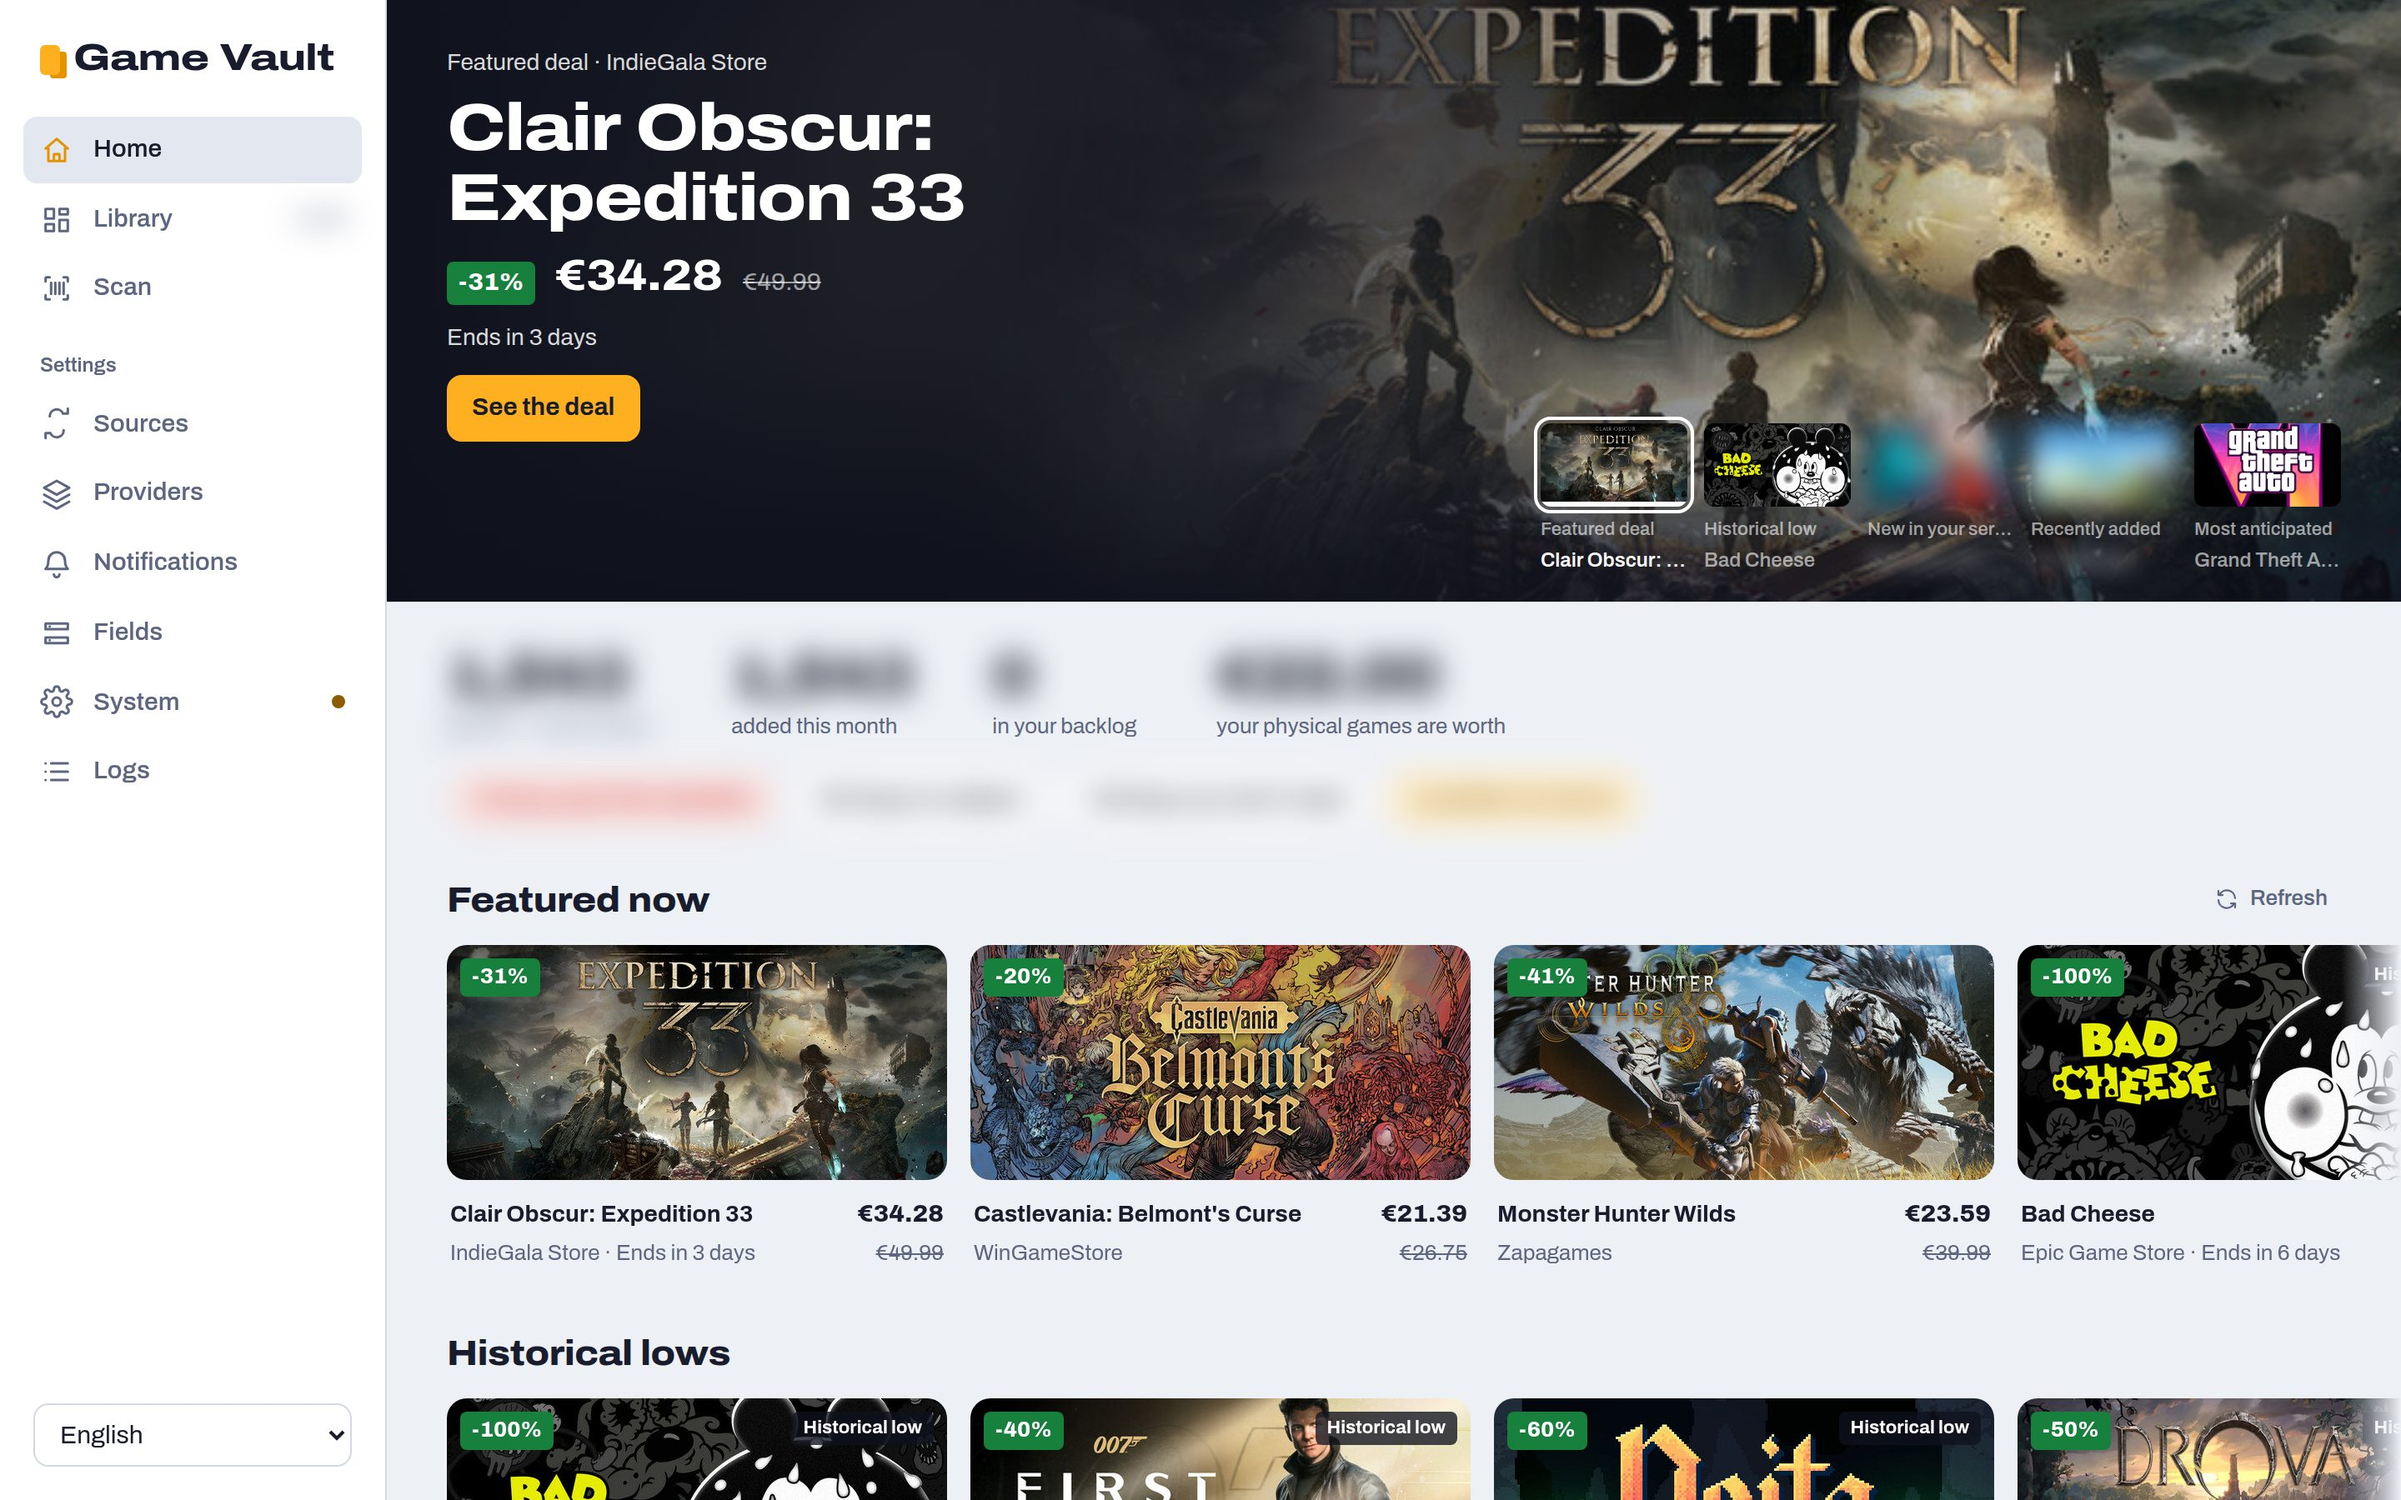
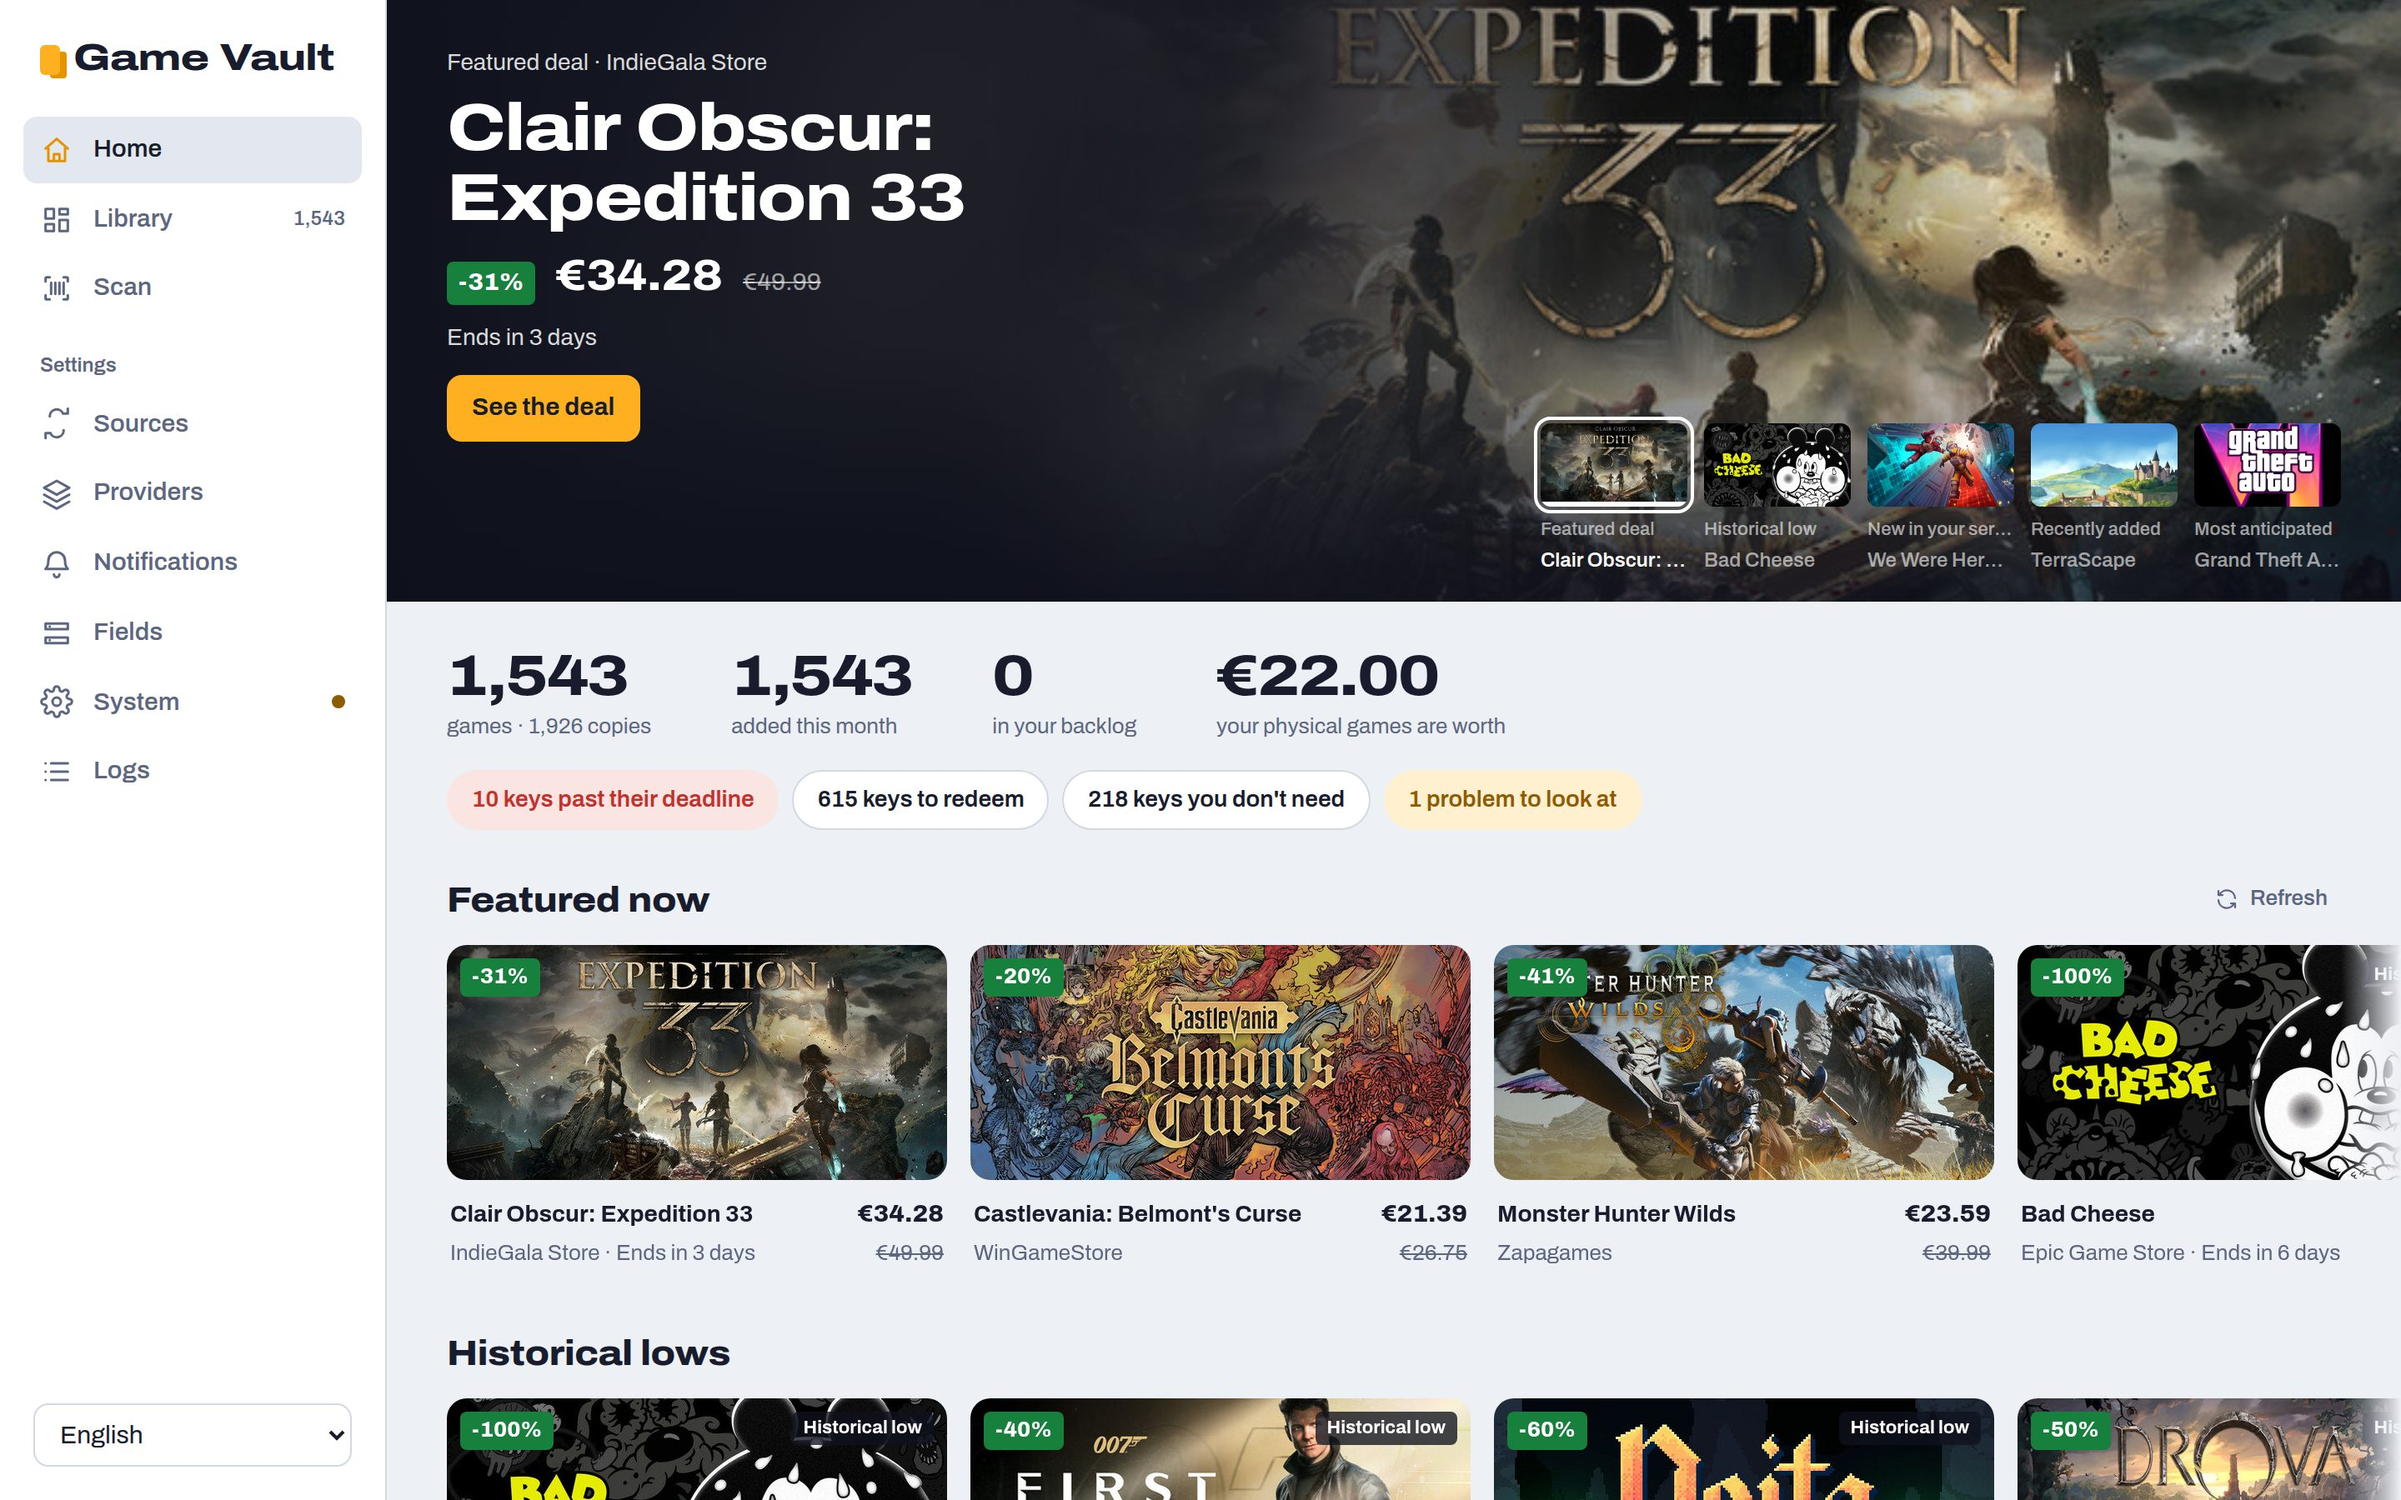
README: the home page screenshot as it is

diff --git a/.claude/memory/public-project.md b/.claude/memory/public-project.md
@@ -16,6 +16,9 @@ comments, `docs/`, specs and plans, code comments, test data, and these memory f
   soundtracks", "a catalog scanned before the fix holds old-format ids". Test fixtures use
   invented or well-known public data, not exports of the maintainer's catalog.
 - Results from the maintainer's own data stay in the chat, never in the repository or on GitHub.
+- One deliberate exception (maintainer's decision, 2026-10-16): the README's home page screenshot
+  (`docs/images/home.jpg`) is the maintainer's real server, shown as it is, without blurring. Do
+  not blur or replace it on your own; other screenshots stay on the demo catalog (`task screenshots`).
 - Describe the license as source-available (PolyForm Noncommercial), see [[license]].
 
 **Why:** the maintainer pointed out that PR #13 said "the user's PlayStation library has about 20

diff --git a/README.md b/README.md
@@ -52,8 +52,8 @@ Game Vault puts your whole collection in one catalog that runs on your own compu
 
 <p align="center"><img src="docs/images/phone.jpg" alt="The library on a phone" width="300"></p>
 
-<sub>The home page is a real collection with its figures blurred; the other screenshots are a demo
-catalog, rebuilt with `task screenshots`.</sub>
+<sub>The home page is the maintainer's own collection; the other screenshots are a demo catalog,
+rebuilt with `task screenshots`.</sub>
 
 ## Supported platforms
 
